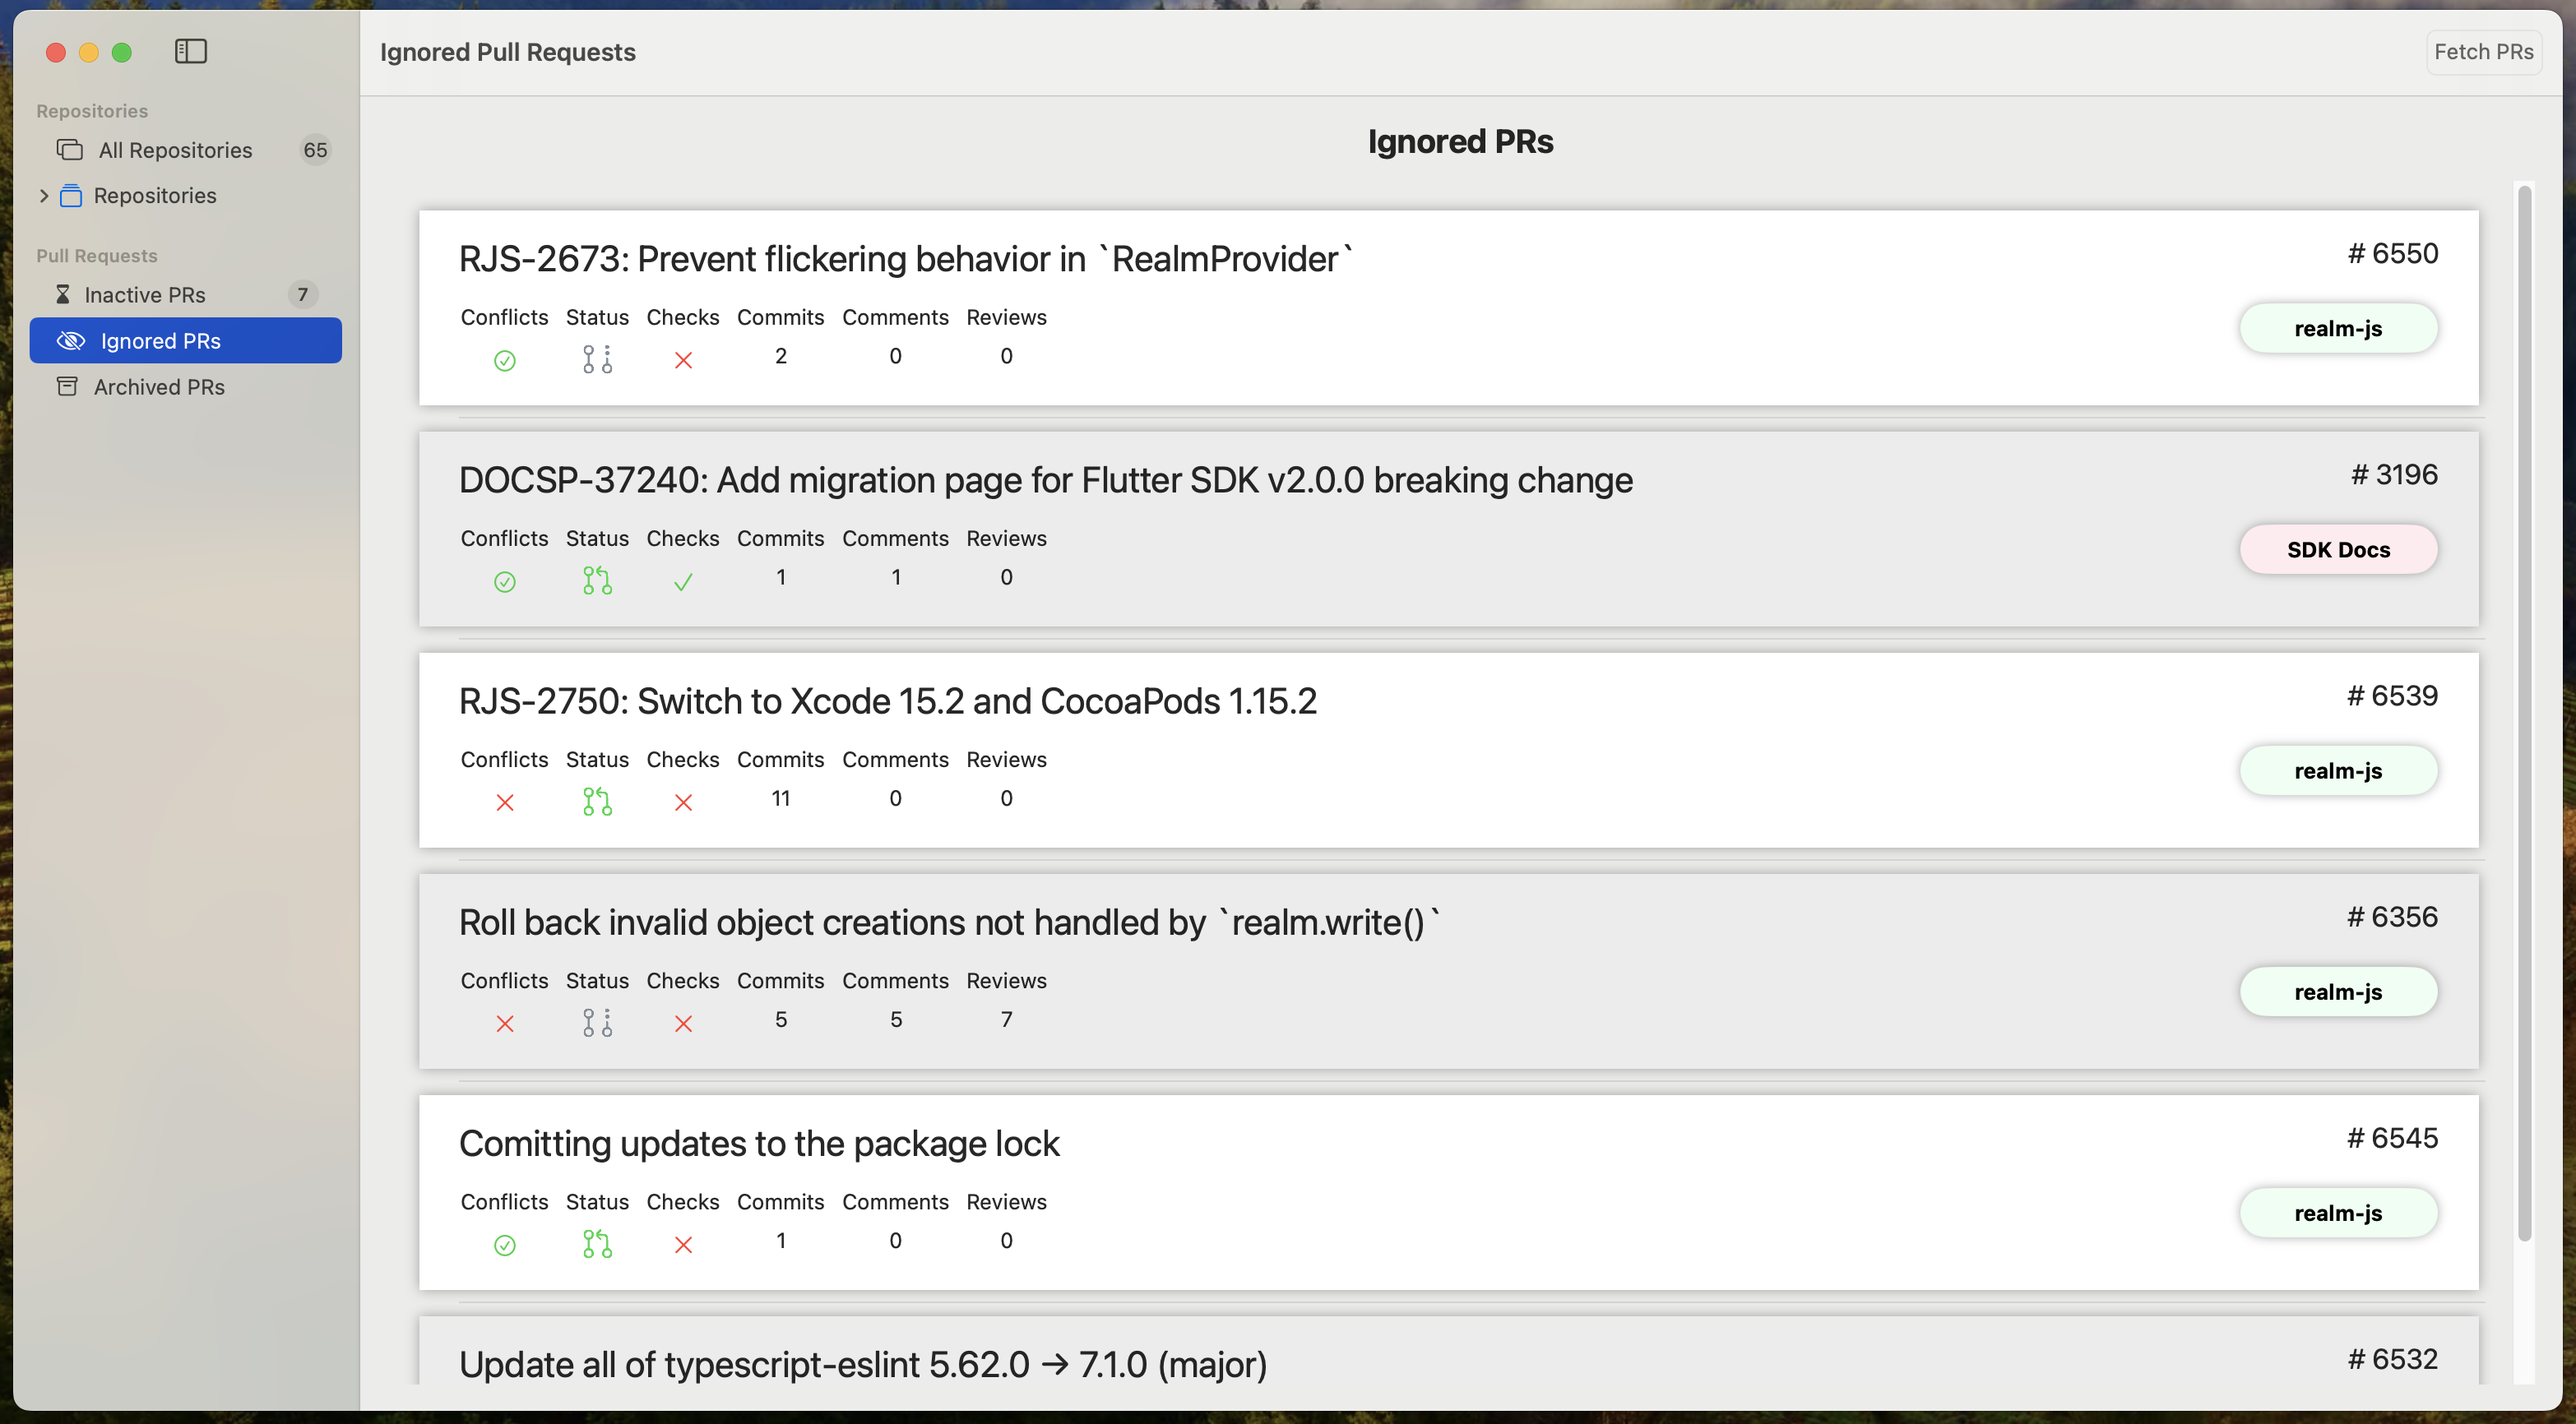
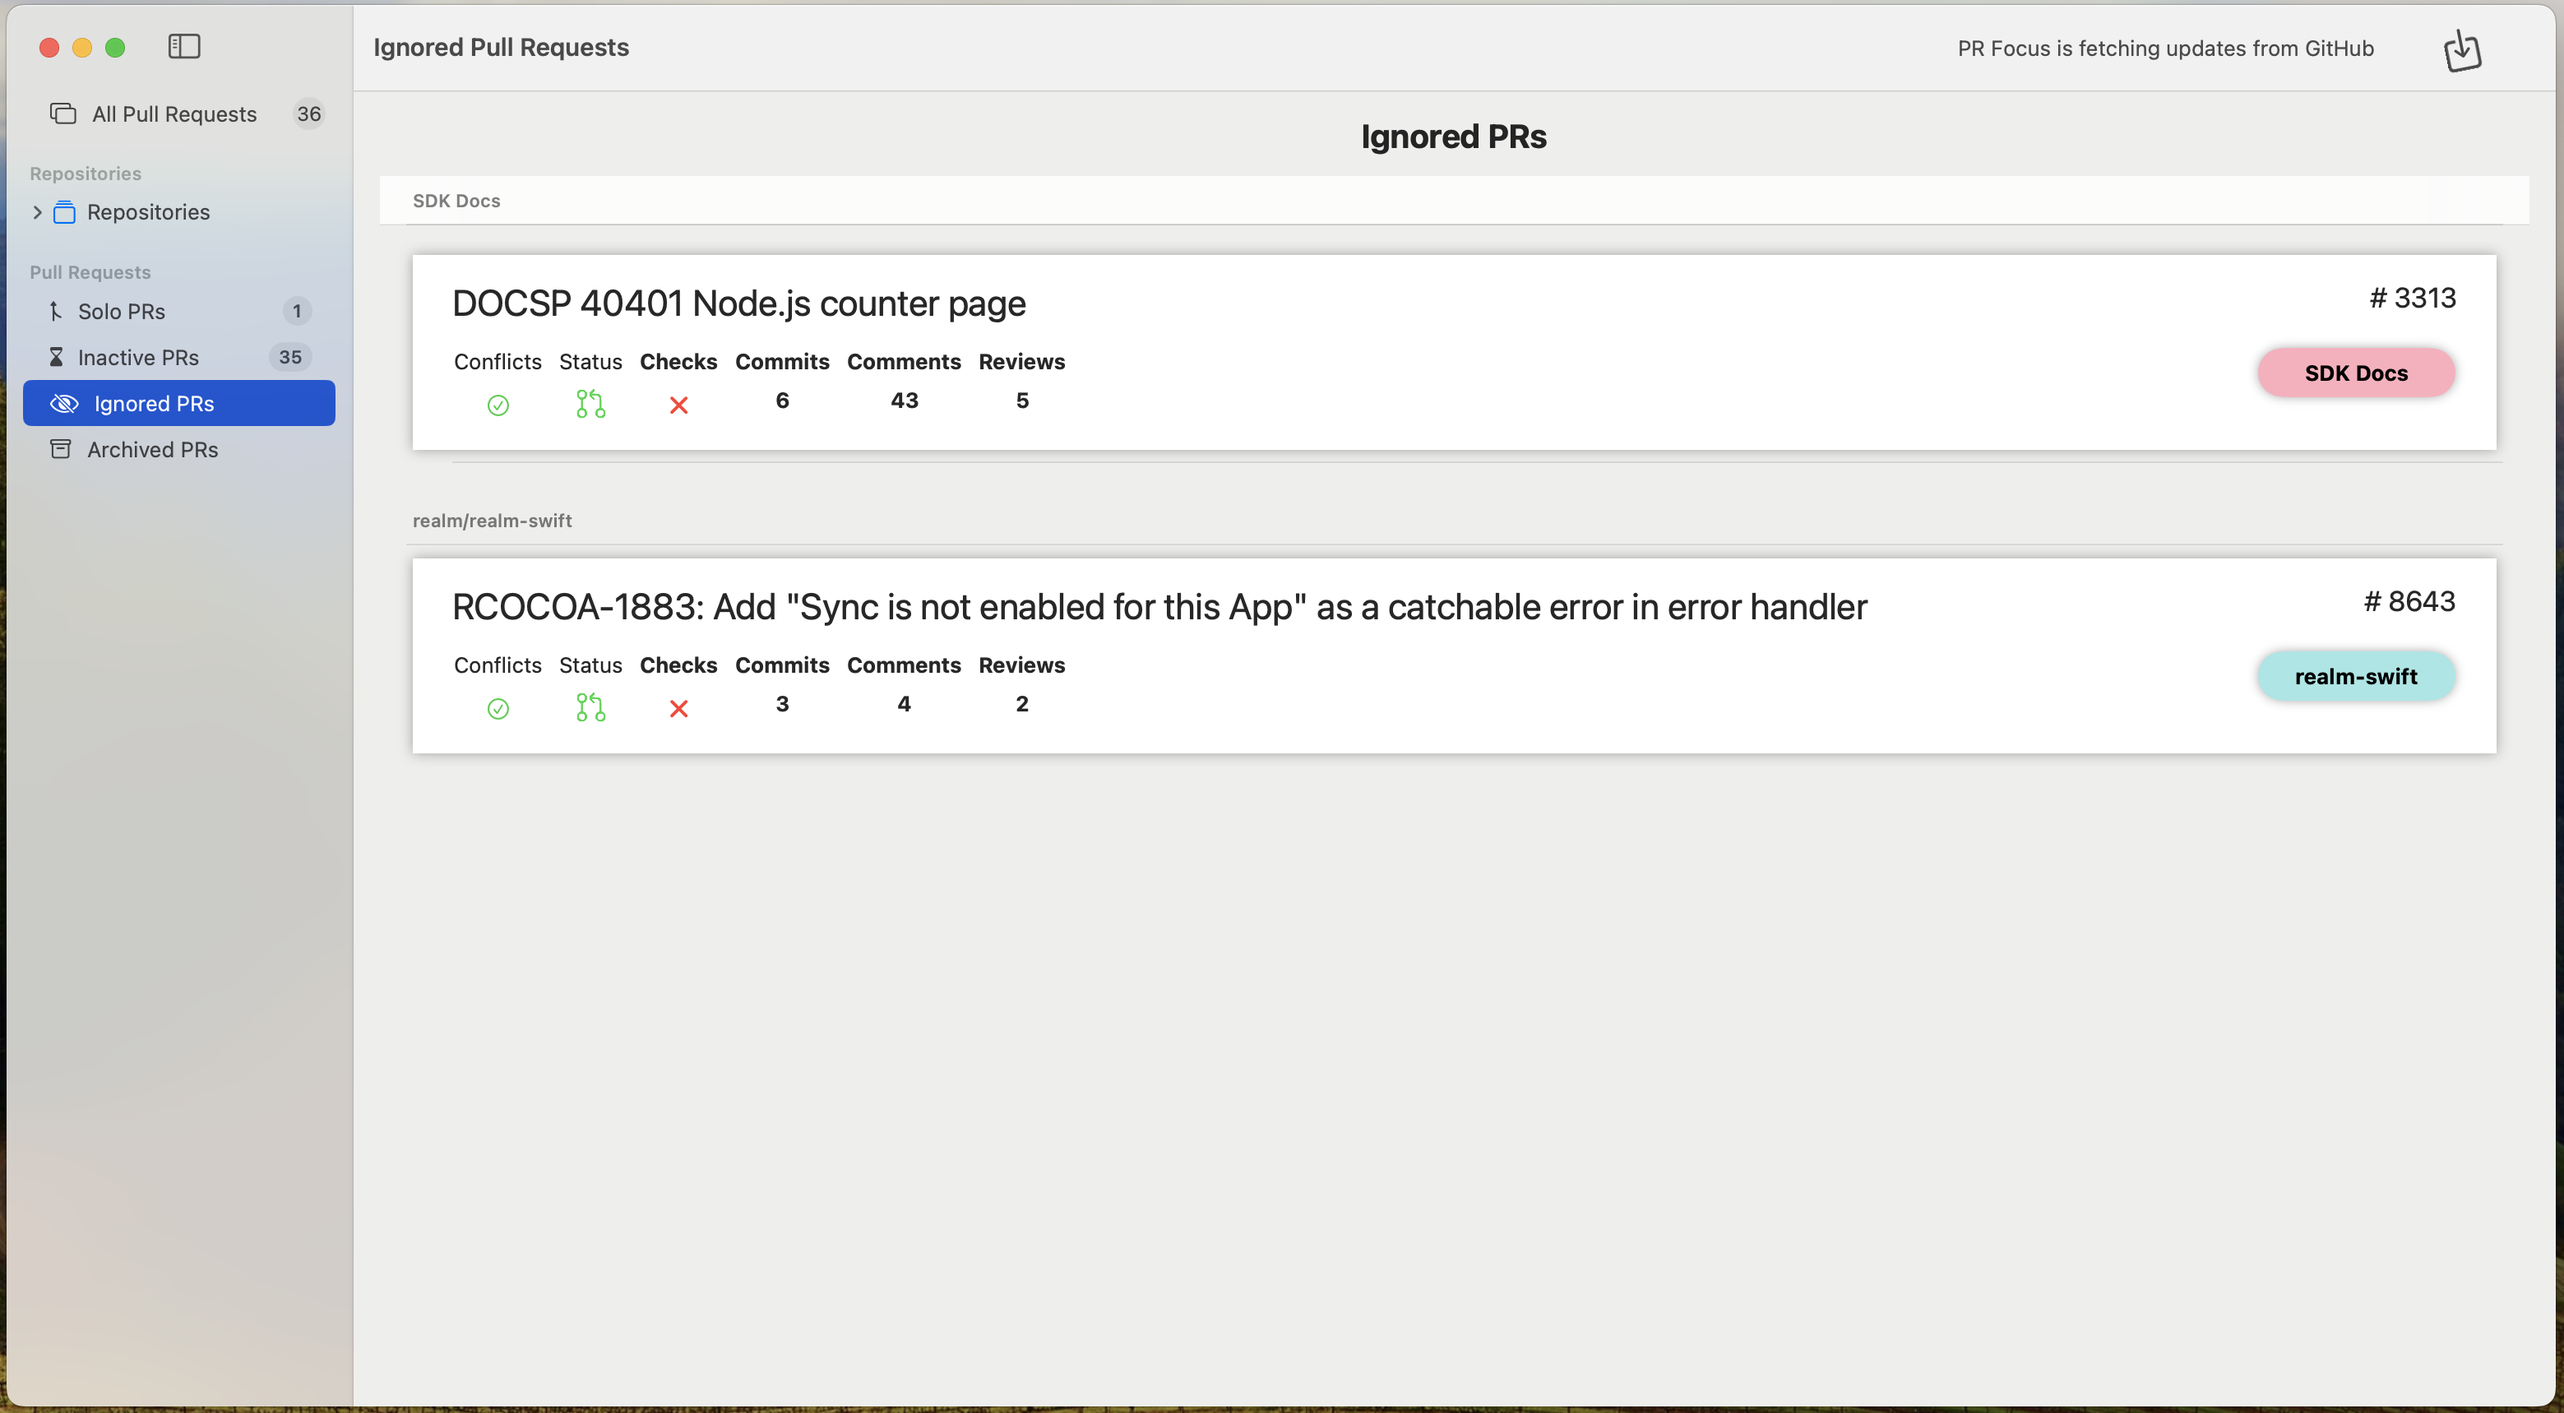
Update UI and explain ignore behavior

diff --git a/content/en/docs/pull-requests/ignored-prs.md b/content/en/docs/pull-requests/ignored-prs.md
@@ -6,41 +6,57 @@ description: >
   Ignoring a PR gets it out of your way. You can get it back at any time.
 ---
 
-When you [view PR Details]({{< ref "docs/pull-requests/view-pr-details.md" >}}), you see a button that lets you ignore the PR.
+From the PR Summary context menu, or when viewing PR details, you can access a button to **Ignore** a pull request.
 
-![Screenshot showing the Watch and Ignore buttons at the top of a PR Detail view](/images/watch-or-ignore-buttons.png)
+You might want to **Ignore** a pull request if its status and details don't matter to you. For example, if you're watching a repository for user-facing changes, and a team puts up a pull request for internal refactoring, you may want to ignore the PR. When you press the **Ignore** button, the pull request goes into the **Ignored PRs** dashboard, which gets it out of your main dashboard views.
 
-When you press the **Ignore** button, the pull request goes into the **Ignored PRs** Dashboard.
+While a PR is ignored, but its status is still open, PR Focus continues to fetch updates to the pull request.
 
-This dashboard is a list of PRs that you've ignored.
+## Ignored PRs Dashboard
+
+This dashboard is a list of PRs that you've ignored, sorted by the repository where the PR originated.
 
 ![Screenshot showing the Ignored PRs Dashboard with a list of full-width PR Summary rows](/images/ignored-prs.png)
 
 You can access the **Ignored PRs** Dashboard by pressing the **Ignored PRs** button in the PR Focus sidebar.
 
+The **Ignored PRs** dashboard does not have a counter. The PR Focus design assumes you do not need to pay attention to ignored PRs.
+
 ## Stop Ignoring a PR
 
-At any time, you can stop ignoring a PR.
+At any time, you can stop ignoring a PR. You might want to stop ignoring a PR if you have a reason to think you might need to pay attention to it, but you're not necessarily ready to watch it. When you stop ignoring a PR, it moves out of your **Ignored PRs** Dashboard and into the **Inbox**.
 
 To stop ignoring a PR:
 
 1. Go into your **Ignored PRs** Dashboard.
 2. Find the PR you want to stop ignoring.
-3. Click into the PR Summary to open the PR Details view.
+3. Use the PR Summary context menu or click into the PR Summary to open the PR Details view.
 4. Press the **Stop Ignoring** button.
-
-This moves the PR out of your **Ignored PRs** Dashboard and into the **Inbox**.
 
 If you want an ignored PR to move directly to your **Watched PRs** list, press the **Watch** button instead of the **Stop Ignoring** button. This automatically stops ignoring the PR and moves it directly to your **Watched PRs** list.
 
-## PR Not Moving to Ignored PRs
+## Unexpected Ignore Behavior
 
-If you try to ignore a PR where you are an assignee, a reviewer, or where the PR is yours, it does not move into the **Ignored PRs** Dashboard. It stays in the relevant column in the Repository Dashboard and All Repositories Dashboard.
+PR Focus is an opinionated app designed to prevent you from missing important pull requests that require your attention. It includes some important design decisions that may result in behavior that seems unexpected unless you understand the design rationale:
+
+- Some PRs may not move to the **Ignored PRs** dashboard
+- PRs may come back from the **Ignored PRs** dashboard without you doing anything
+- You cannot delete an open PR - you can only ignore it
+
+### PR Not Moving to Ignored PRs
+
+If you try to ignore a PR where you are an assignee, a reviewer, or where the PR is yours, it does not move into the **Ignored PRs** Dashboard. It stays in the relevant column in the Repository Dashboard and **All Pull Requests** Dashboard.
 
 This is an intentional design decision to prevent you from missing important work that requires your attention.
 
-## PR Comes Back from Ignored PRs
+### PR Comes Back from Ignored PRs
 
-If you have previously ignored a PR, but you later become an assignee or reviewer, the PR moves out of the **Ignored PRs** Dashboard and into the relevant column in the Repository Dashboard and All Repositories Dashboard.
+If you have previously ignored a PR, but you later become an assignee or reviewer, the PR moves out of the **Ignored PRs** Dashboard and into the relevant column in the Repository Dashboard and **All Pull Requests** Dashboard.
 
 This is an intentional design decision to prevent you from missing important work that requires your attention.
+
+### You Can Only Ignore - Can't Delete - an Open PR
+
+In some cases, you may want to delete a pull request instead of ignoring it. You might want to delete a pull request when you're absolutely certain you don't need to pay attention to it.
+
+PR Focus does not allow deleting open pull requests. This is an intentional design decision, as PR Focus assumes you may eventually become a reviewer or assignee on an open pull request. Ignoring a pull request is intended to remove it from the pull requests you need to pay attention to, while preserving the ability to let you know if it moves into a state where you need to pay attention to it.
